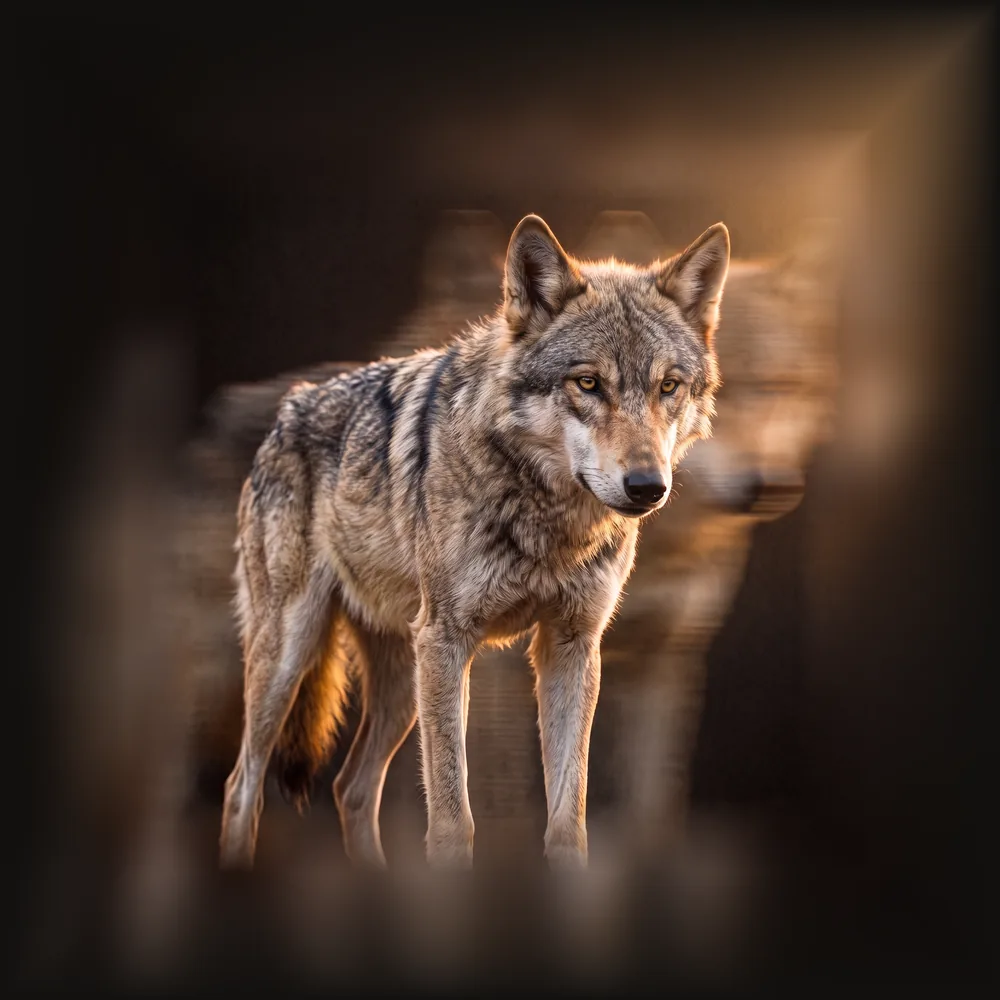
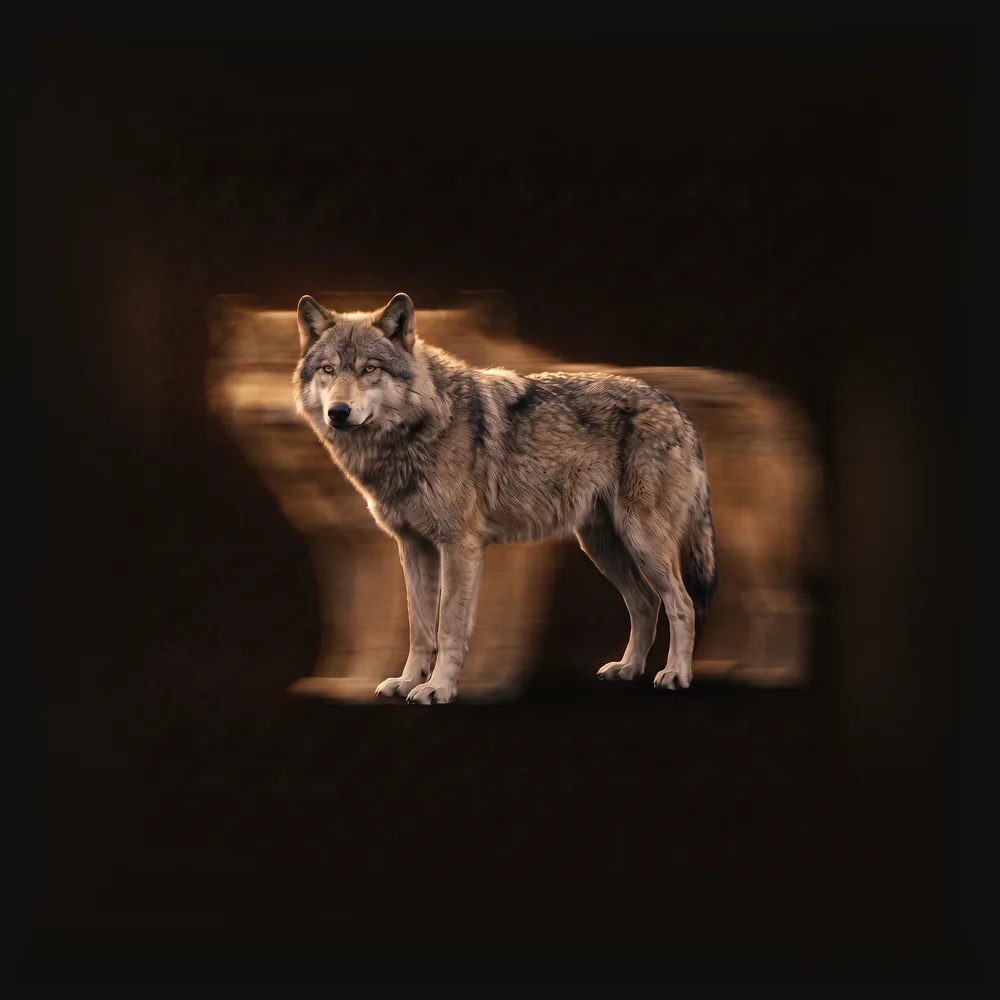
v3.0 stills

diff --git a/preview.html b/preview.html
@@ -27,7 +27,7 @@
 <div class="pv">
   <h1>Wolf, 1 to 10</h1>
   <div class="stagebox">
-    <div class="hero"><div class="stage-art" id="wolfArt"><video class="a" id="wolfImg" src="img/wolf/01.mp4" poster="img/wolf/01.webp" muted autoplay loop playsinline></video><span class="flick"></span><span class="flick b"></span></div></div>
+    <div class="hero"><div class="stage-art" id="wolfArt"><img class="a" id="wolfImg" src="img/wolf/01.webp" alt=""><span class="flick"></span><span class="flick b"></span></div></div>
     <div class="ctl"><button id="wPrev">‹</button><input type="range" id="wRange" min="1" max="10" value="1"><span class="n" id="wN">1</span><button id="wNext">›</button></div>
     <button class="btn play" id="wPlay">Play</button>
   </div>

diff --git a/sw.js b/sw.js
@@ -1,7 +1,7 @@
 // Wolf service worker: network-first for the app shell so a pushed update reaches the
 // phone on the next open, with the cache as the offline fallback. Artwork and fonts
 // are immutable per version and come from cache first.
-const VERSION = "wolf-v16";
+const VERSION = "wolf-v17";
 const STAGES = [];
 for (const k of ["wolf", "brain"]) for (let i = 1; i <= 10; i++) { const n = String(i).padStart(2, "0"); STAGES.push(`./img/${k}/${n}.webp`); }
 const SHELL = [

diff --git a/app.js b/app.js
@@ -139,7 +139,7 @@
 
   /* ---------- art crossfade ---------- */
   const shownStage = { wolf: 0, brain: 0 };
-  const VIDEO = { wolf: true, brain: false };   // stages that ship as looping clips
+  const VIDEO = { wolf: false, brain: false };   // stages that ship as looping clips
   function srcFor(kind, n) { return VIDEO[kind] ? `img/${kind}/${pad(n)}.mp4` : `img/${kind}/${pad(n)}.webp`; }
   function load(el, kind, n, cb) {
     const src = srcFor(kind, n);
